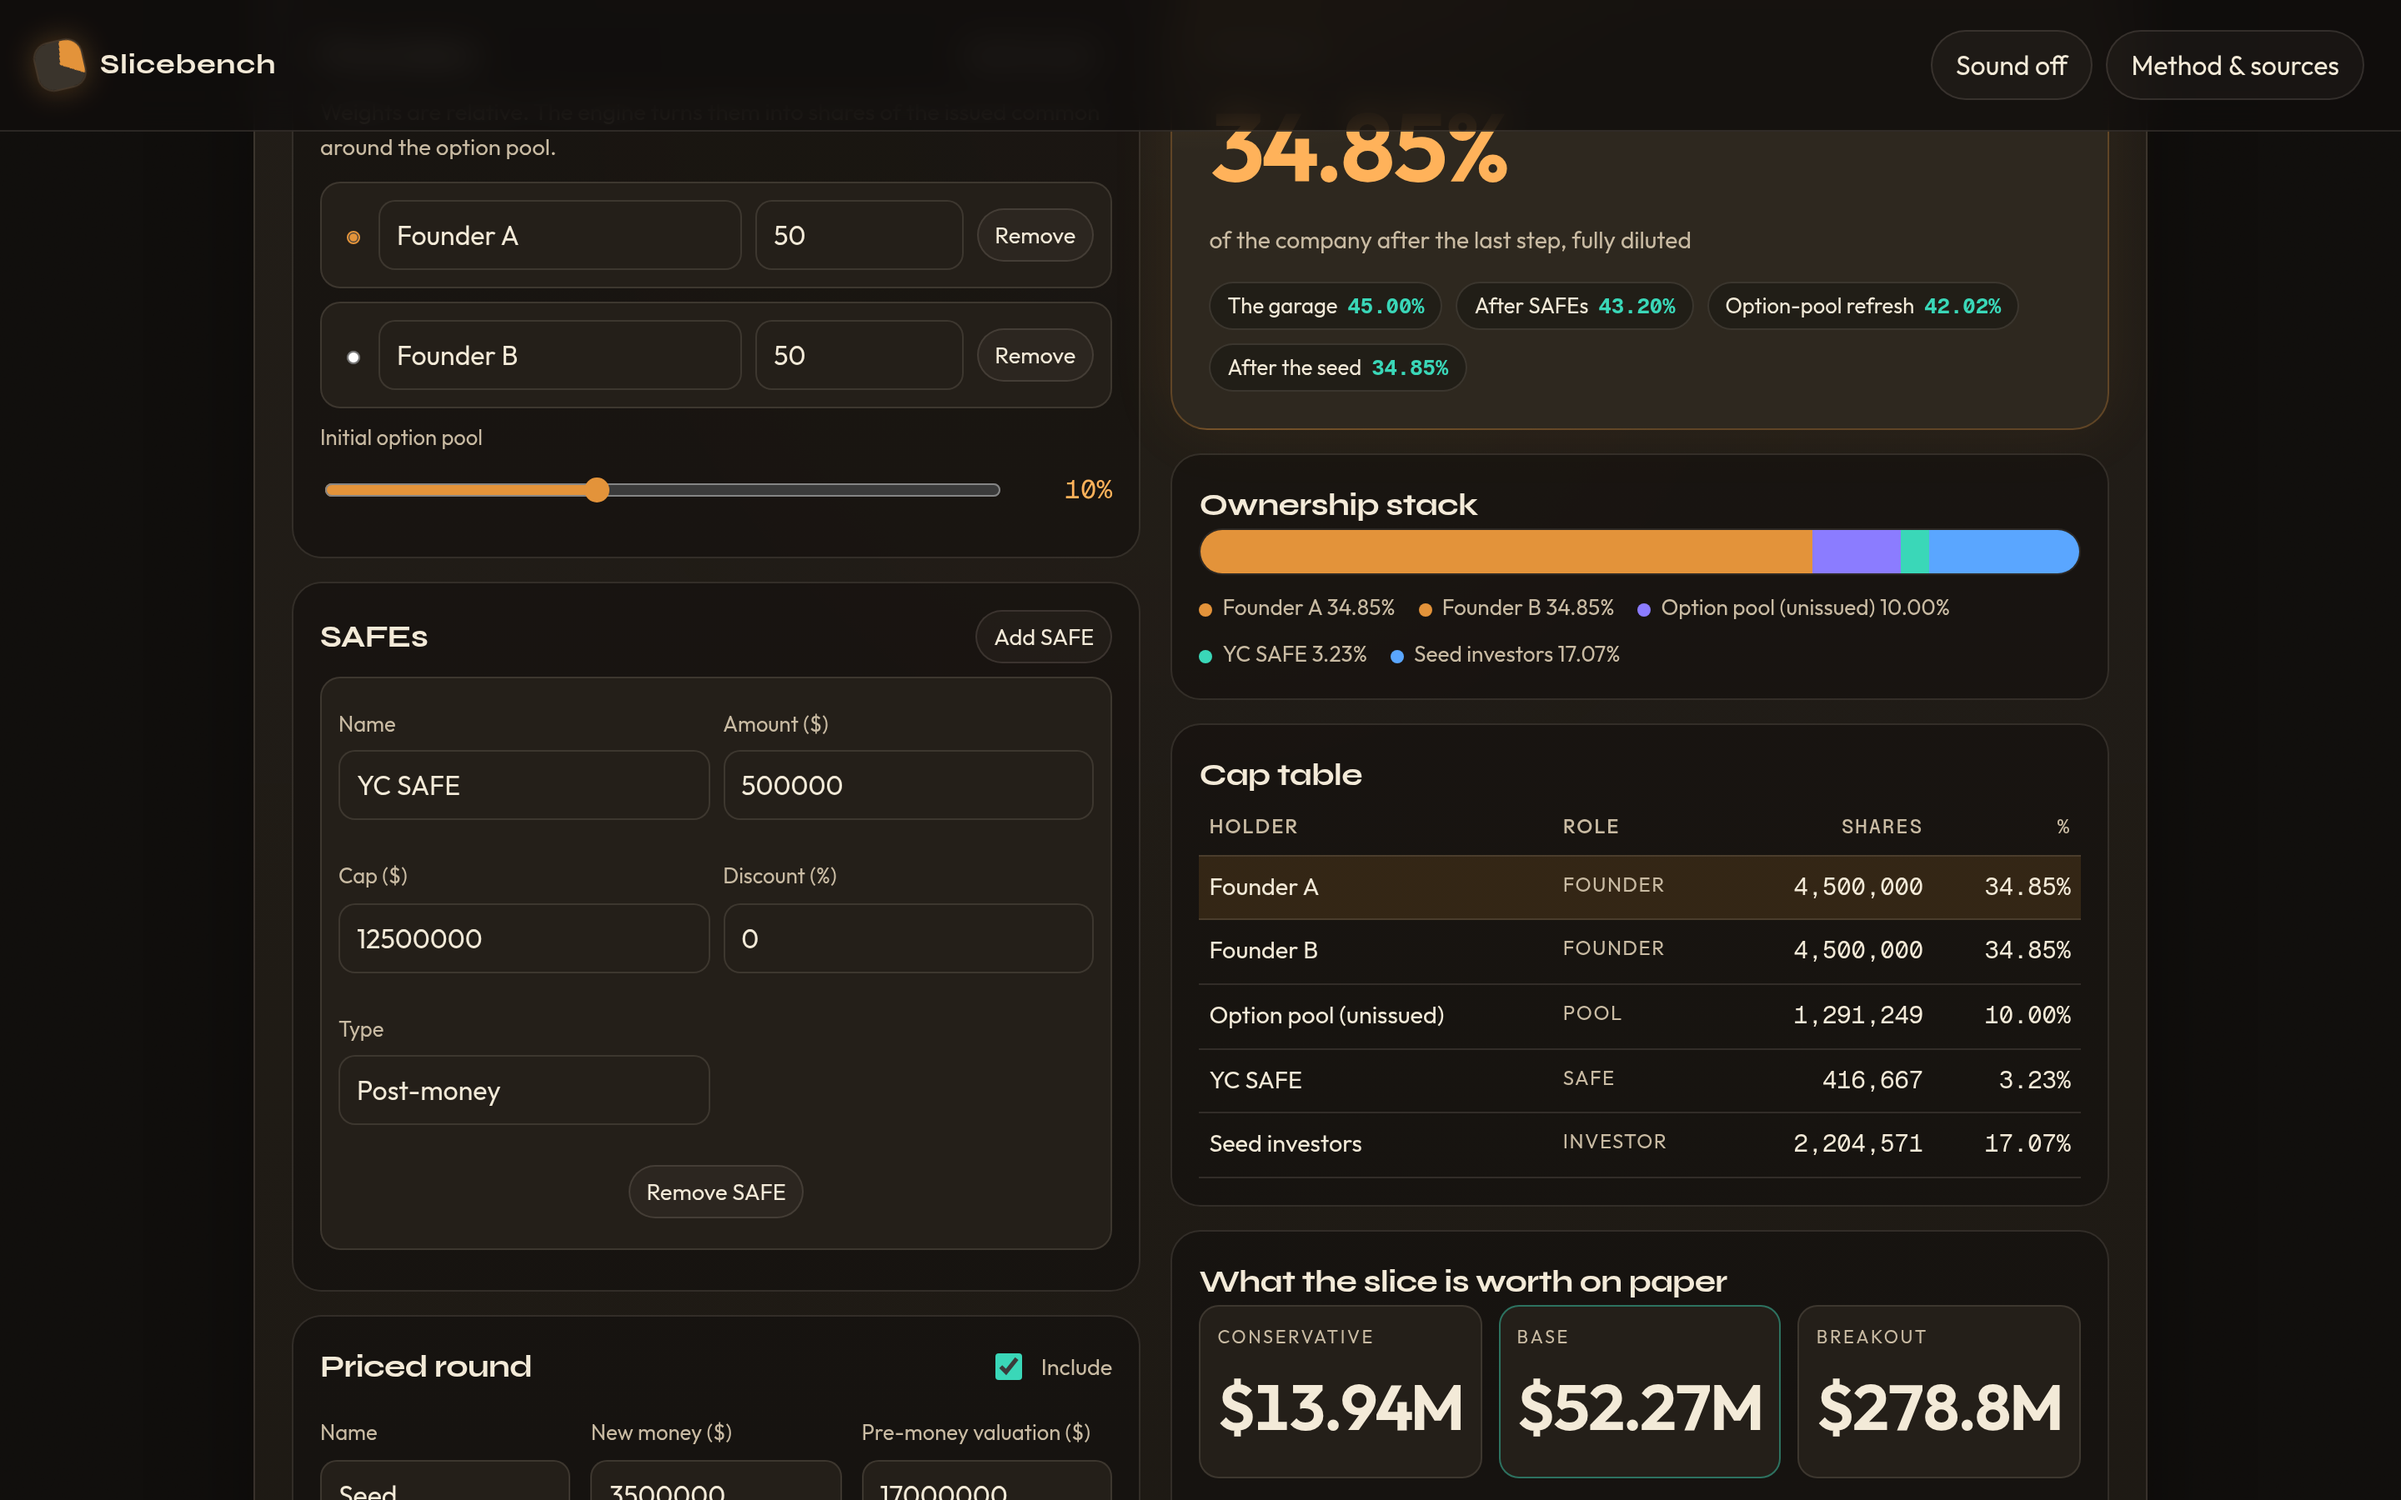
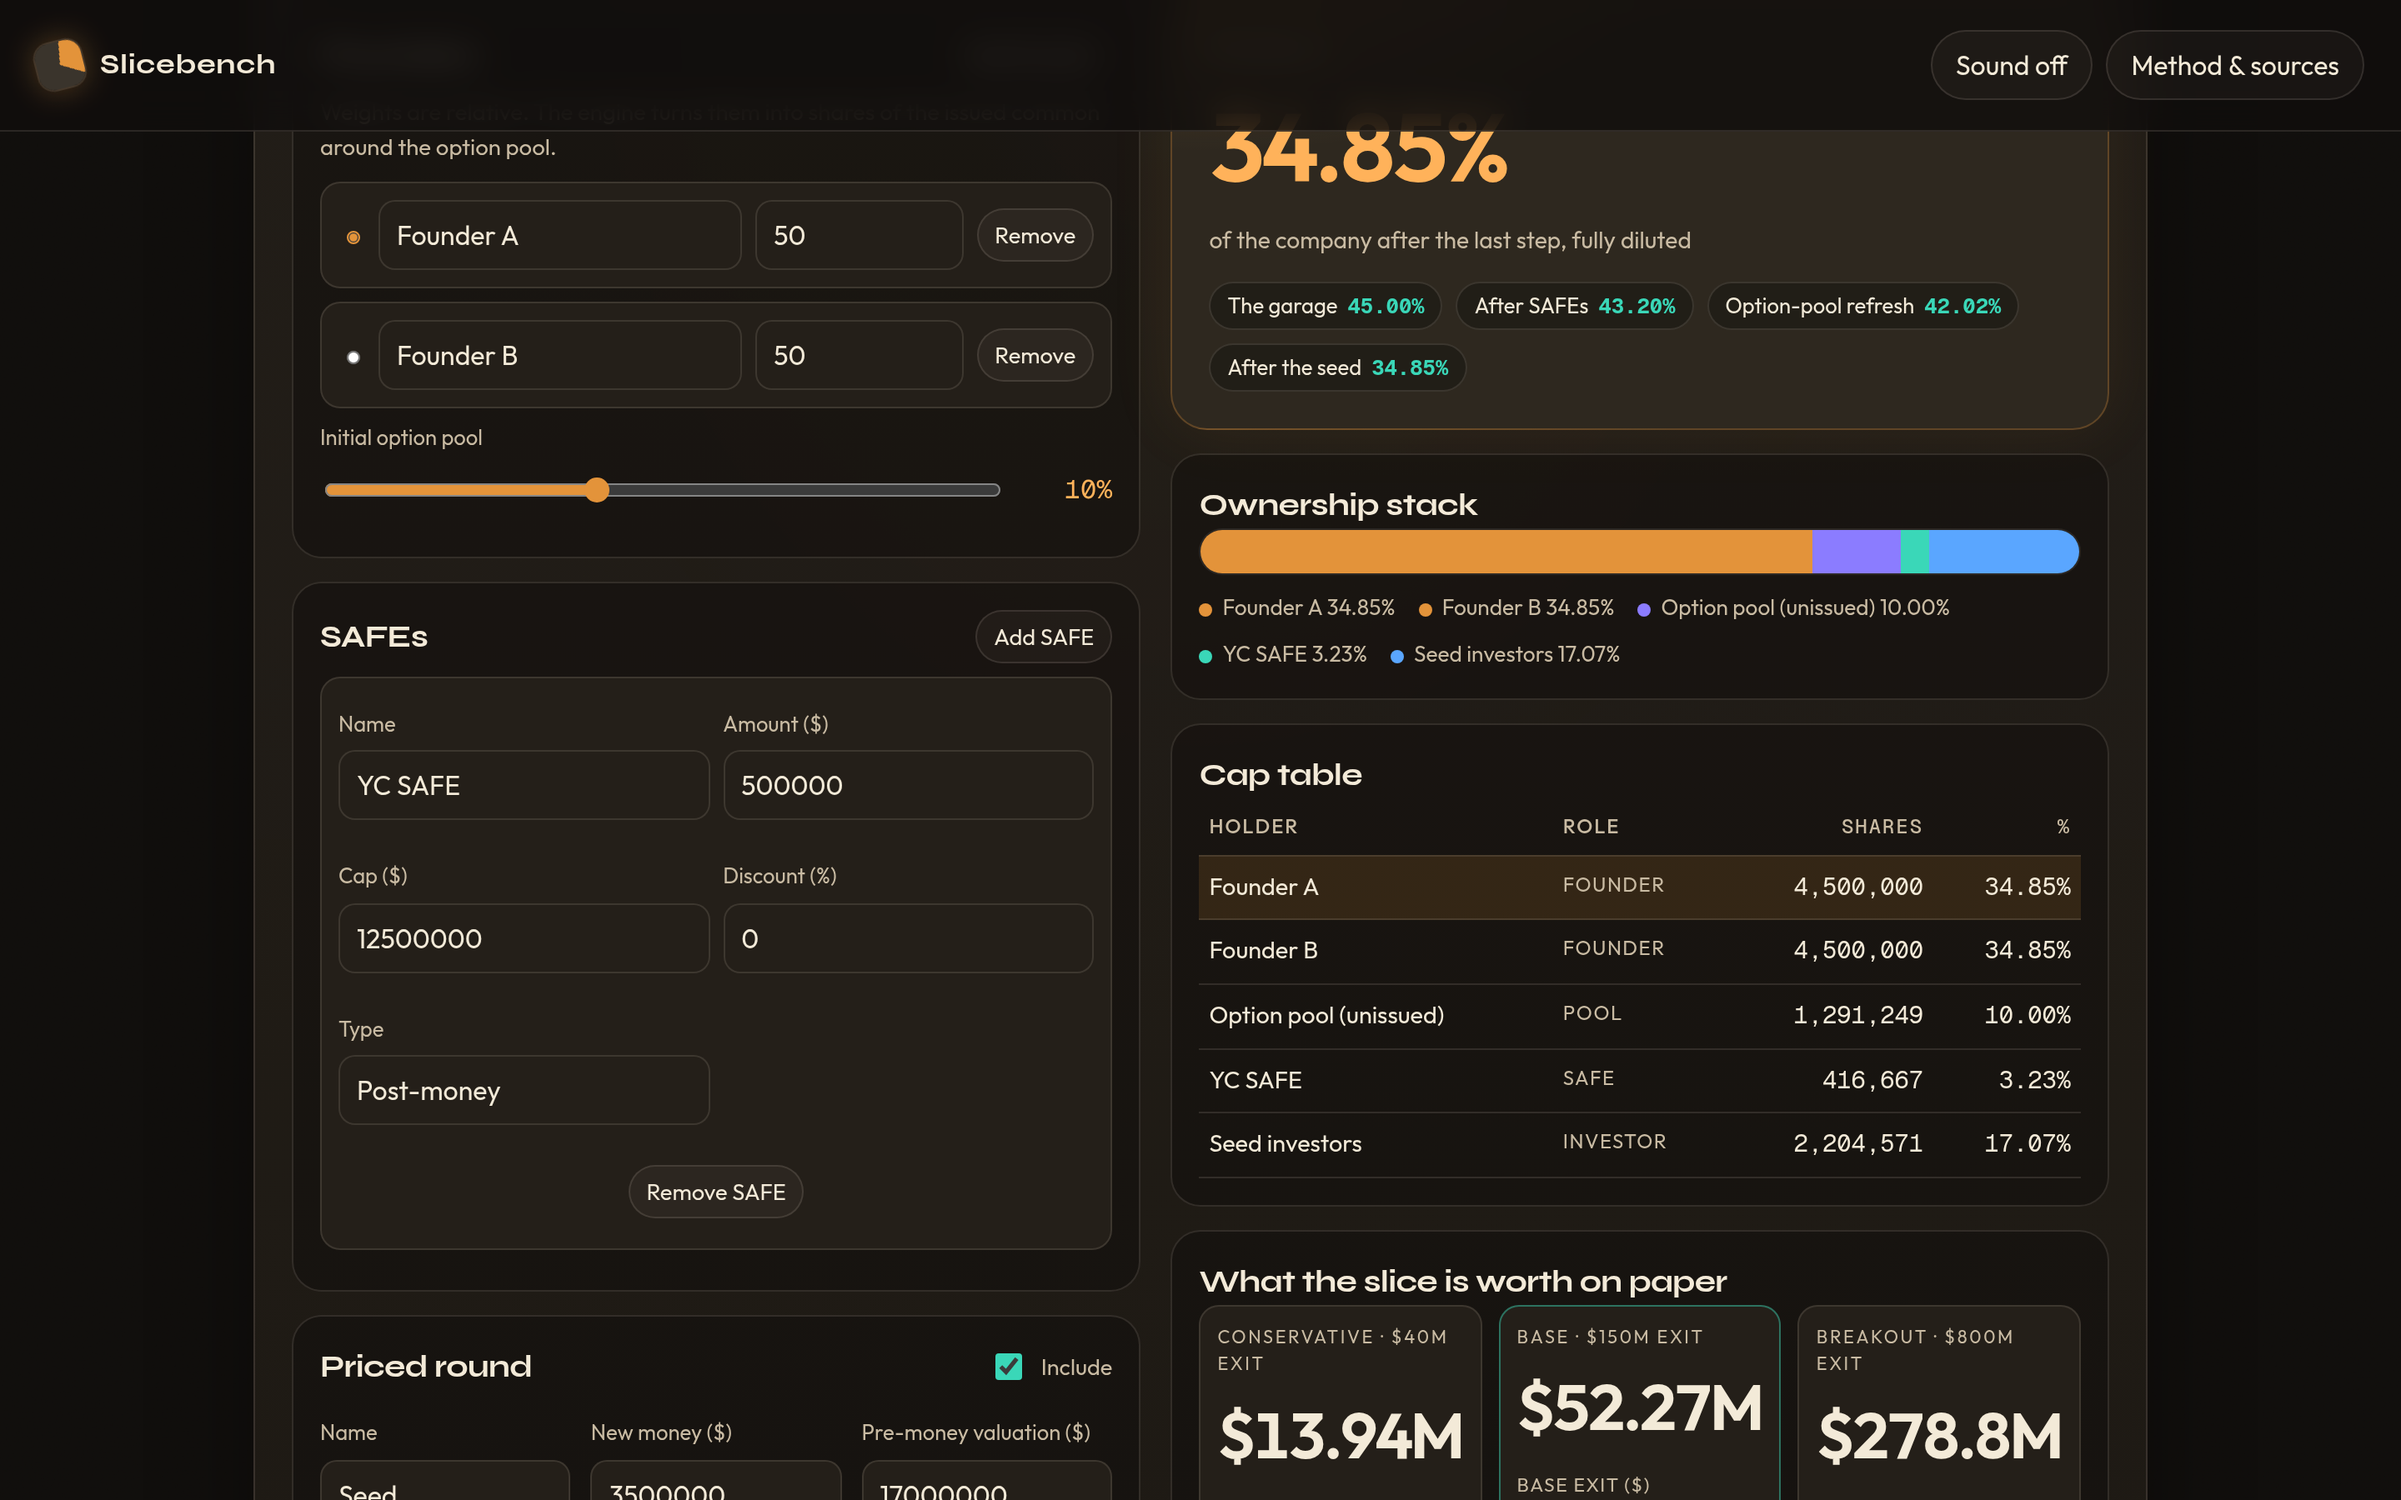
Bind paper-value exits on-screen, retitle the cliff panel, and fix the lab voiceover.
Exit inputs now sit on the paper-value cards they drive, with live $40M / $150M / $800M labels. The lab heading promotes vesting insights such as "Leaving before the cliff." The demo script no longer says "shipped."

Changed region(s): [[0.75, 0.9022, 0.875, 0.9956], [0.5, 0.9022, 0.625, 0.9956], [0.625, 0.9644, 0.6875, 0.9956]]

diff --git a/public/index.html b/public/index.html
@@ -178,26 +178,14 @@
           </article>
 
           <article class="panel" data-testid="panel-exits">
-            <h3>Paper value &amp; the job you didn't take</h3>
+            <h3>The job you didn't take</h3>
             <div class="field-grid">
-              <label class="field">
-                <span>Conservative exit ($)</span>
-                <input type="number" id="field-exit-conservative" data-testid="field-exit-conservative" min="0" step="1000000" value="40000000">
-              </label>
-              <label class="field">
-                <span>Base exit ($)</span>
-                <input type="number" id="field-exit-base" data-testid="field-exit-base" min="0" step="1000000" value="150000000">
-              </label>
-              <label class="field">
-                <span>Breakout exit ($)</span>
-                <input type="number" id="field-exit-breakout" data-testid="field-exit-breakout" min="0" step="1000000" value="800000000">
-              </label>
               <label class="field">
                 <span>Four-year cash gap ($)</span>
                 <input type="number" id="field-salary" data-testid="field-salary" min="0" step="10000" value="400000">
               </label>
             </div>
-            <p class="hint">The cash gap is the extra salary and bonus you might give up versus another job. Paper value ignores taxes, preferences, and exercise cost — it is a comparison tool, not a payday.</p>
+            <p class="hint">The cash gap is the extra salary and bonus you might give up versus another job. Paper value ignores taxes, preferences, and exercise cost — it is a comparison tool, not a payday. Exit valuations live next to the paper values they produce.</p>
           </article>
         </div>
 
@@ -227,28 +215,41 @@
             </div>
           </article>
 
-          <article class="panel values-panel">
+          <article class="panel values-panel" data-testid="panel-paper">
             <h3>What the slice is worth on paper</h3>
             <div class="value-grid">
               <div>
-                <p class="value-kicker">Conservative</p>
-                <p class="value-num" data-testid="paper-conservative">$13.9M</p>
+                <p class="value-kicker" data-testid="exit-label-conservative">Conservative · $40M exit</p>
+                <p class="value-num" data-testid="paper-conservative">$13.94M</p>
+                <label class="field exit-field">
+                  <span>Conservative exit ($)</span>
+                  <input type="number" id="field-exit-conservative" data-testid="field-exit-conservative" min="0" step="1000000" value="40000000">
+                </label>
               </div>
               <div class="is-win">
-                <p class="value-kicker">Base</p>
-                <p class="value-num" data-testid="paper-base">$52.3M</p>
+                <p class="value-kicker" data-testid="exit-label-base">Base · $150M exit</p>
+                <p class="value-num" data-testid="paper-base">$52.27M</p>
+                <label class="field exit-field">
+                  <span>Base exit ($)</span>
+                  <input type="number" id="field-exit-base" data-testid="field-exit-base" min="0" step="1000000" value="150000000">
+                </label>
               </div>
               <div>
-                <p class="value-kicker">Breakout</p>
-                <p class="value-num" data-testid="paper-breakout">$279M</p>
+                <p class="value-kicker" data-testid="exit-label-breakout">Breakout · $800M exit</p>
+                <p class="value-num" data-testid="paper-breakout">$278.8M</p>
+                <label class="field exit-field">
+                  <span>Breakout exit ($)</span>
+                  <input type="number" id="field-exit-breakout" data-testid="field-exit-breakout" min="0" step="1000000" value="800000000">
+                </label>
               </div>
             </div>
             <p class="break-even" data-testid="break-even"></p>
           </article>
 
-          <article class="panel lab" data-testid="lab">
-            <h3>What we tested</h3>
-            <p class="hint">Two edits we ran on this same deal, live. They do not change your bench until you apply one.</p>
+          <article class="panel lab" id="lab" data-testid="lab">
+            <h3 data-testid="lab-heading">What we tested</h3>
+            <p class="hint" data-testid="lab-lead">Two edits we ran on this same deal, live. They do not change your bench until you apply one.</p>
+            <ul class="insights" data-testid="insights"></ul>
             <div class="lab-grid">
               <div class="lab-card">
                 <h4>Pool +5 points</h4>
@@ -266,7 +267,6 @@
           </article>
 
           <div class="warnings" data-testid="warnings" hidden></div>
-          <ul class="insights" data-testid="insights"></ul>
         </div>
       </div>
     </section>

diff --git a/public/js/app.js b/public/js/app.js
@@ -2,6 +2,7 @@ import { project, compareFocus } from './core/captable.js';
 import { defaultModel, getPreset, labVariants, DEFAULT_PRESET_ID } from './core/presets.js';
 import { applyHash, encodeState, shareUrl, toState } from './core/share.js';
 import { formatMoney, formatPercent, formatShares } from './core/format.js';
+import { featuredLabStory } from './core/labstory.js';
 import { loadMutePreference, setMuted, isMuted, blip, whoosh, chime, tick, warn } from './audio.js';
 
 const ROLE_COLOR = {
@@ -256,6 +257,11 @@ function render(projection, { sound = false } = {}) {
   animateNumber($('[data-testid="paper-conservative"]'), focus.values.conservative, (n) => formatMoney(n));
   animateNumber($('[data-testid="paper-base"]'), focus.values.base, (n) => formatMoney(n));
   animateNumber($('[data-testid="paper-breakout"]'), focus.values.breakout, (n) => formatMoney(n));
+  const exits = model.exits || {};
+  const label = (name, value) => `${name} · ${formatMoney(value)} exit`;
+  $('[data-testid="exit-label-conservative"]').textContent = label('Conservative', exits.conservative);
+  $('[data-testid="exit-label-base"]').textContent = label('Base', exits.base);
+  $('[data-testid="exit-label-breakout"]').textContent = label('Breakout', exits.breakout);
 
   const be = $('[data-testid="break-even"]');
   if (focus.breakEven) {
@@ -276,6 +282,10 @@ function render(projection, { sound = false } = {}) {
 
   const list = $('[data-testid="insights"]');
   list.innerHTML = insights.map((i) => `<li data-testid="insight-${i.code}"><strong>${escapeHtml(i.title)}</strong>${escapeHtml(i.body)}</li>`).join('');
+  const story = featuredLabStory(insights);
+  $('[data-testid="lab-heading"]').textContent = story.heading;
+  $('[data-testid="lab-lead"]').textContent = story.lead;
+  $('#lab').classList.toggle('is-featured-story', Boolean(story.featured));
 
   renderLab();
   $('#field-pool-out').textContent = `${Number($('#field-pool').value).toFixed(1).replace(/\.0$/, '')}%`;

diff --git a/public/styles.css b/public/styles.css
@@ -414,6 +414,16 @@ output { font-family: var(--font-mono); min-width: 3.4em; text-align: right; col
 .value-grid > div { padding: 10px; border-radius: 12px; background: var(--bench); border: 1px solid var(--line); }
 .value-grid > div.is-win { border-color: rgba(58, 215, 184, 0.45); }
 .break-even { margin: 12px 0 0; color: var(--paper-dim); }
+.exit-field { margin: 8px 0 0; }
+.exit-field span { font-size: 0.72rem; letter-spacing: 0.06em; text-transform: uppercase; }
+.exit-field input {
+  width: 100%;
+  margin-top: 4px;
+  font-variant-numeric: tabular-nums;
+}
+.lab .insights { margin: 0 0 12px; }
+.lab.is-featured-story [data-testid="lab-heading"] { color: var(--teal); }
+
 
 .lab-grid { display: grid; grid-template-columns: repeat(2, minmax(0, 1fr)); gap: 10px; }
 .lab-card {

diff --git a/public/js/core/labstory.js b/public/js/core/labstory.js
@@ -1,0 +1,14 @@
+/** Heading and lead copy for the lab panel, driven by the live insight set. */
+
+export const LAB_DEFAULT_HEADING = 'What we tested';
+export const LAB_DEFAULT_LEAD = 'Two edits we ran on this same deal, live. They do not change your bench until you apply one.';
+
+const FEATURED_CODES = new Set(['cliff-zero', 'partial-vest']);
+
+export function featuredLabStory(insights) {
+  const featured = (insights || []).find((item) => FEATURED_CODES.has(item.code));
+  if (!featured) {
+    return { heading: LAB_DEFAULT_HEADING, lead: LAB_DEFAULT_LEAD, featured: null };
+  }
+  return { heading: featured.title, lead: featured.body, featured };
+}
